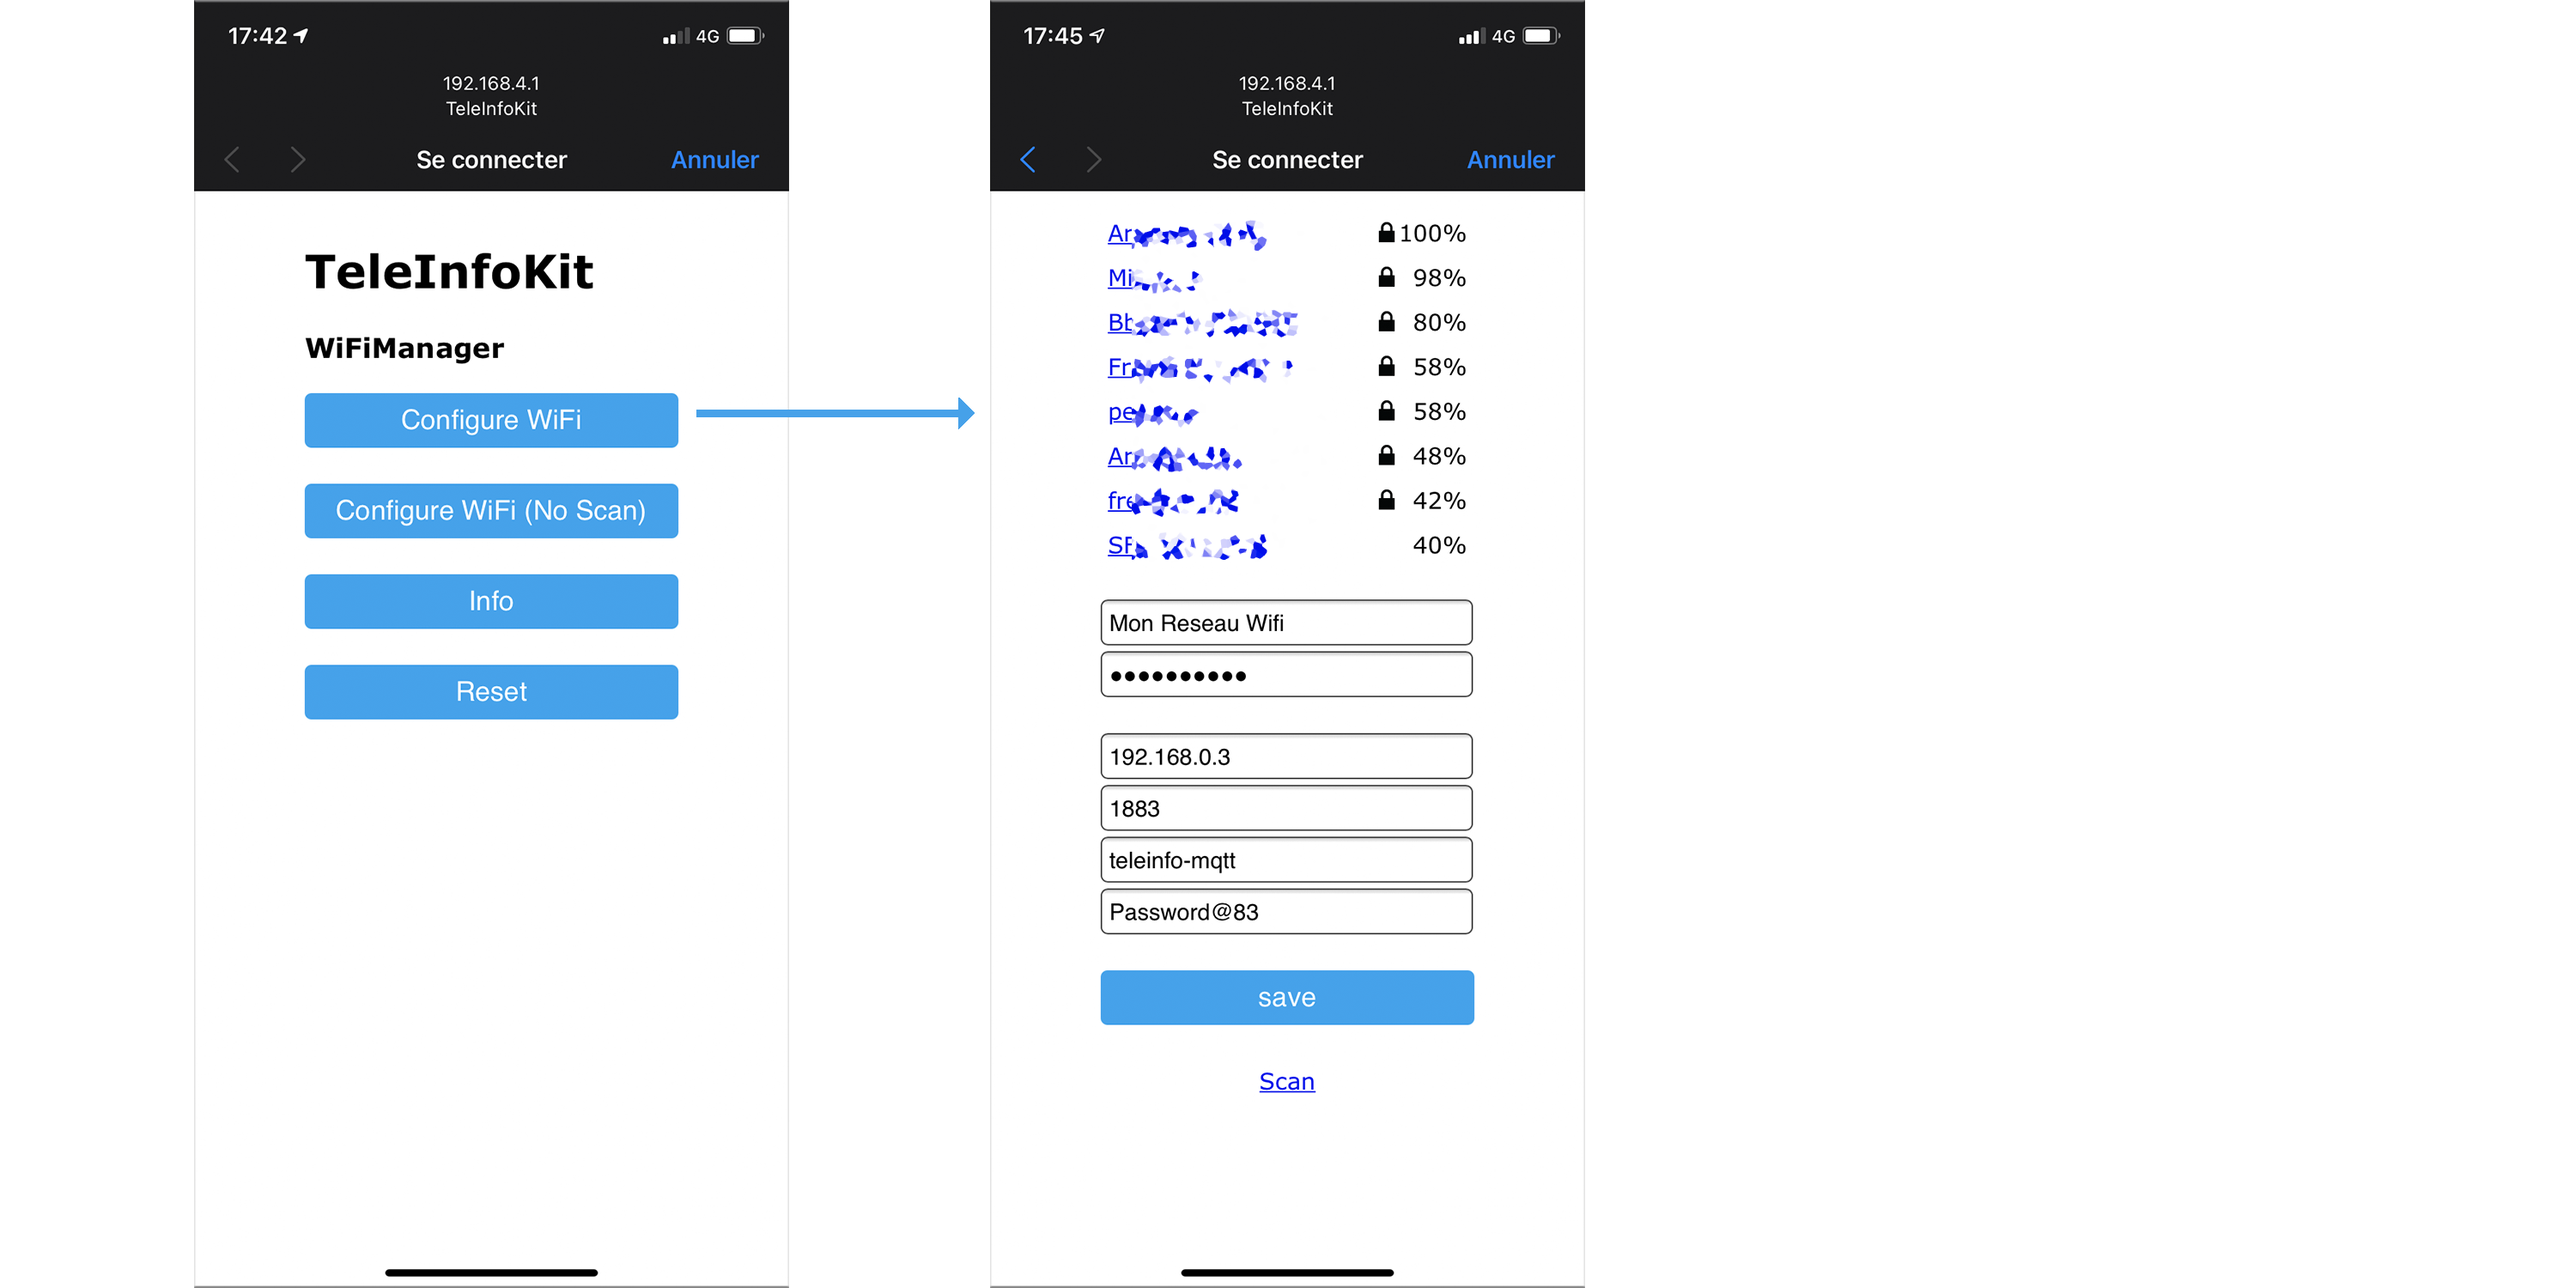
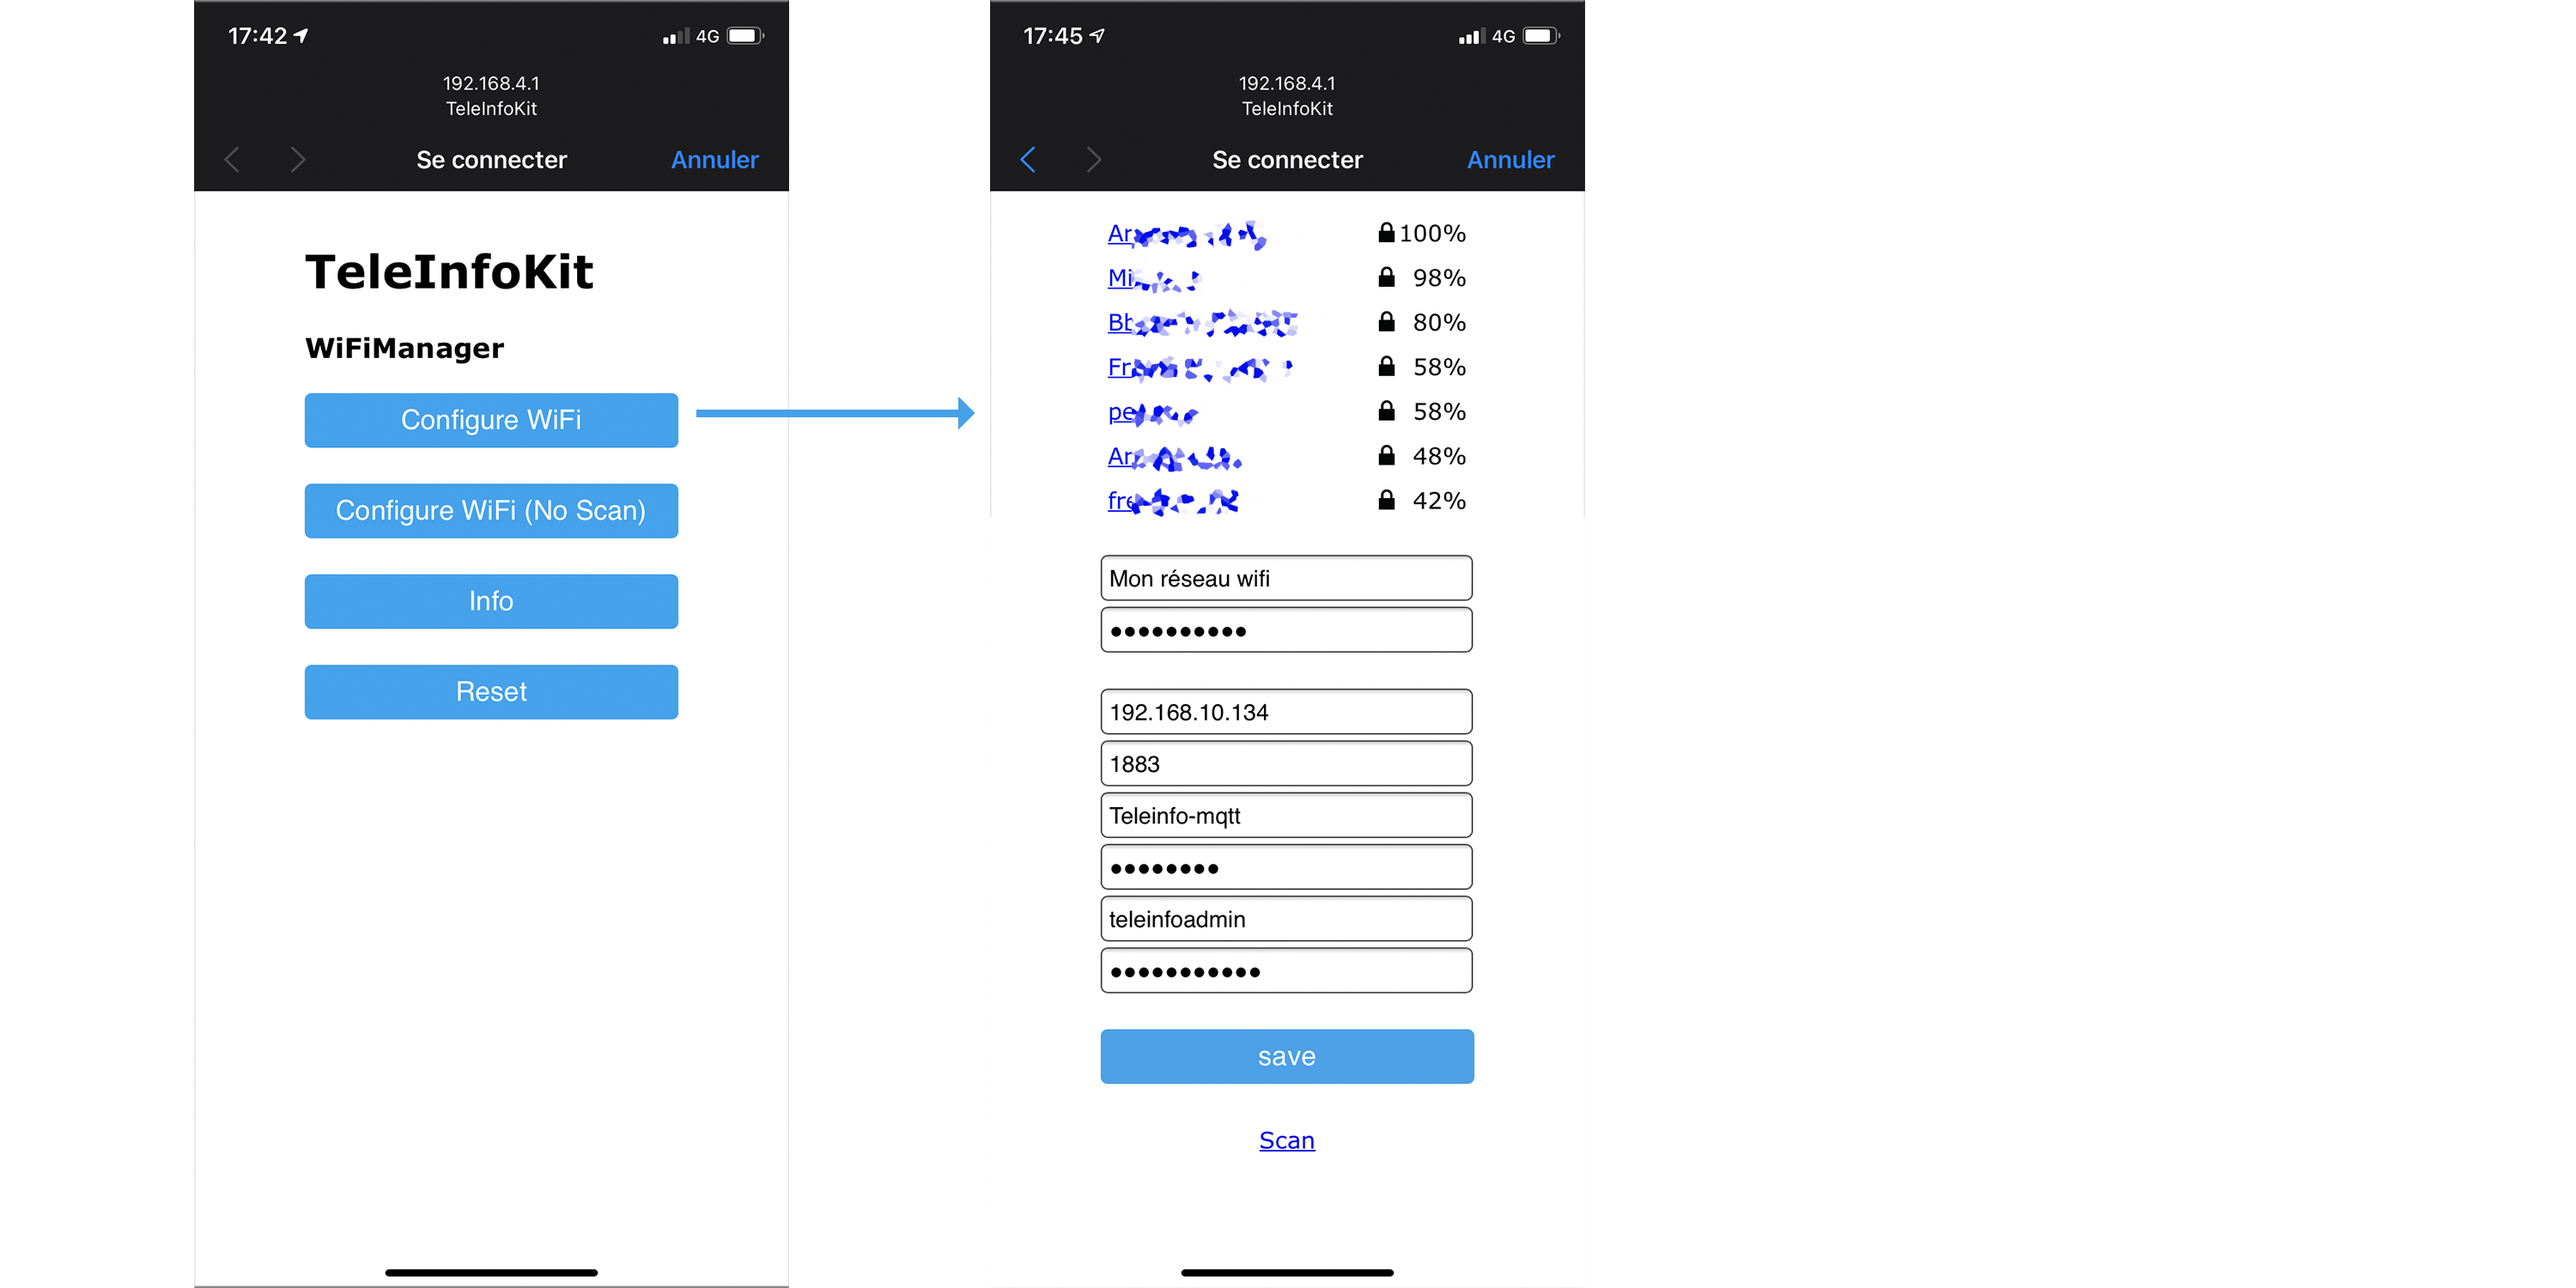
Documentation authentification

Changed region(s): [[0.403, 0.3987, 0.589, 0.8587], [0.403, 0.9813, 0.62, 1.0]]

diff --git a/doc/user-guide.md b/doc/user-guide.md
@@ -2,7 +2,7 @@
 
 ## Démarrage et configuration
 
-Lors du premier démarrage du module il est nécessaire de saisir les informations de connexion au réseau Wifi et au serveur MQTT.
+Lors du premier démarrage du module il est nécessaire de saisir les informations de connexion au réseau Wifi, au serveur MQTT et à l'authentification.
 
 Brancher le connecteur micro USB à une source d'alimentation 5V (chargeur USB classique), puis attendre jusqu'à l'affichage de l'écran suivant :
 
@@ -20,12 +20,21 @@ Un réseau Wifi portant le SSID `TeleInfoKit` a été créé. A l'aide d'un smar
 * Saisir le mot de passe du réseau wifi
 * Saisir l'adresse du serveur mqtt (ip ou alias dns)
 * Saisir le login et le mot de passe du serveur MQTT (Si pas de login/mot de passe, laisser à vide)
+* Choisir un identifiant et un mot de passe pour protéger l'accès aux données par mot de passe.
 
 Cliquer sur `Save`. Le module va afficher un message de confirmation puis continuer le démarrage avec un message `Configuration reseau ok`.
 
 Le point d'accès wifi se désactive.
 
 **Note:** Le réseau wifi utilisé doit avoir accès à internet pour que l'heure puisse être obtenue depuis un serveur NTP.
+
+### Authentification
+
+Lors de la configuration initiale il est possible de saisir un login/password pour protéger l'accès aux données. Ces identifiants sont utilisés pour activer une authentification HTTP Basic sur la page dashboard et l'accès aux APIs. Le navigateur demandera automatiquement ces identifiants.
+
+![Authentication](./authentication.png)
+
+Si les deux champs sont laissés vides, l'authentification est désactivée.
 
 ### En cas de mauvais paramétrage MQTT
 
@@ -140,7 +149,7 @@ Sans appui supplémentaire sur le bouton, l'écran va s'éteindre au bout de 5s 
 
 ## Réinitialisation de la configuration
 
-Pour modifier ou supprimer les paramètres de connexion (Wifi et serveur MQTT), les étapes sont les suivantes :
+Pour modifier ou supprimer les paramètres de connexion (Wifi, serveur MQTT et authentification), les étapes sont les suivantes :
 
 * Naviguer jusqu'à l'écran 6
 
